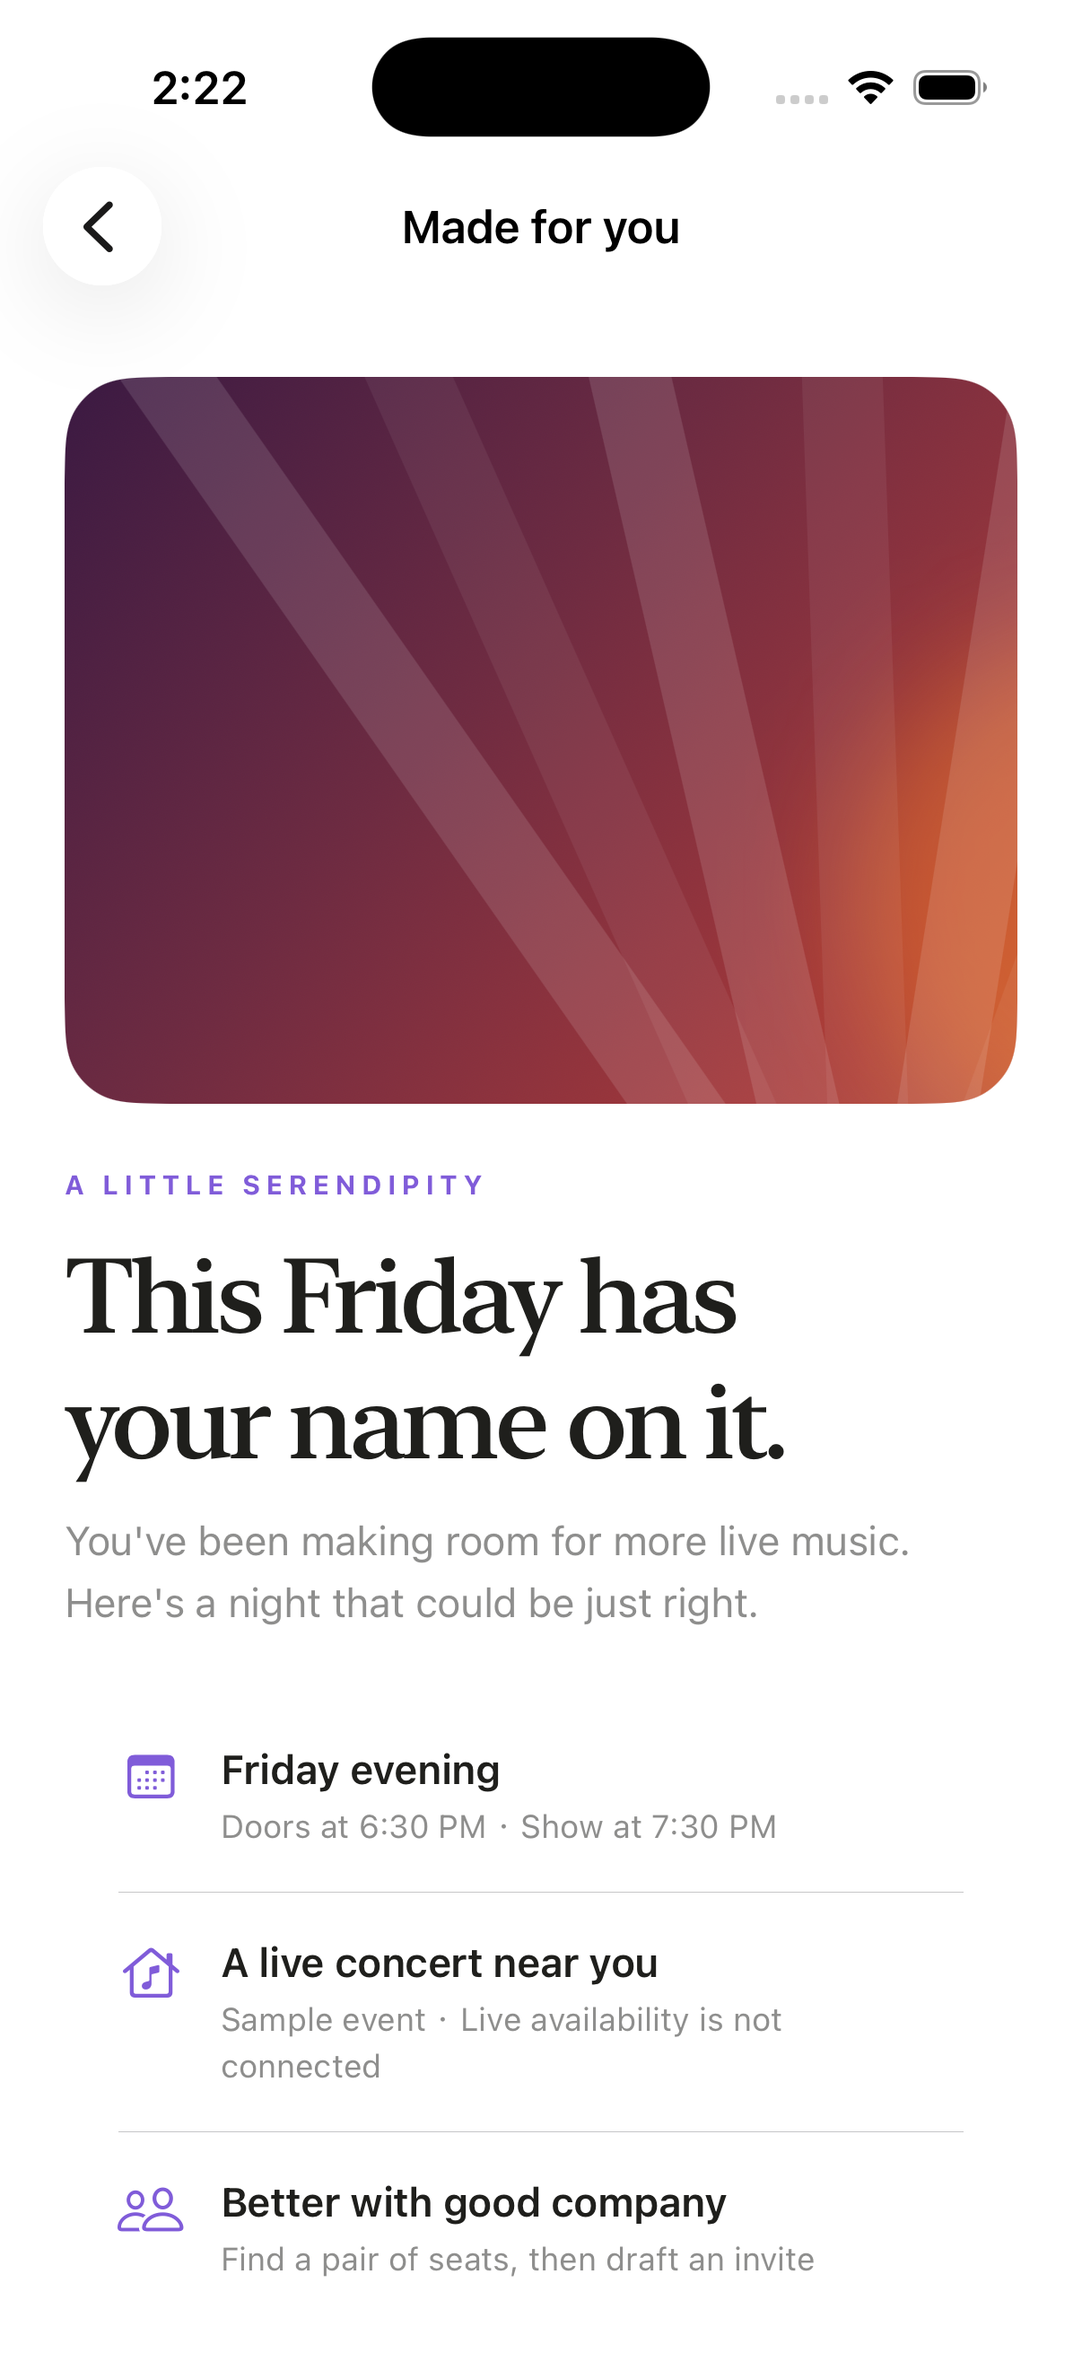
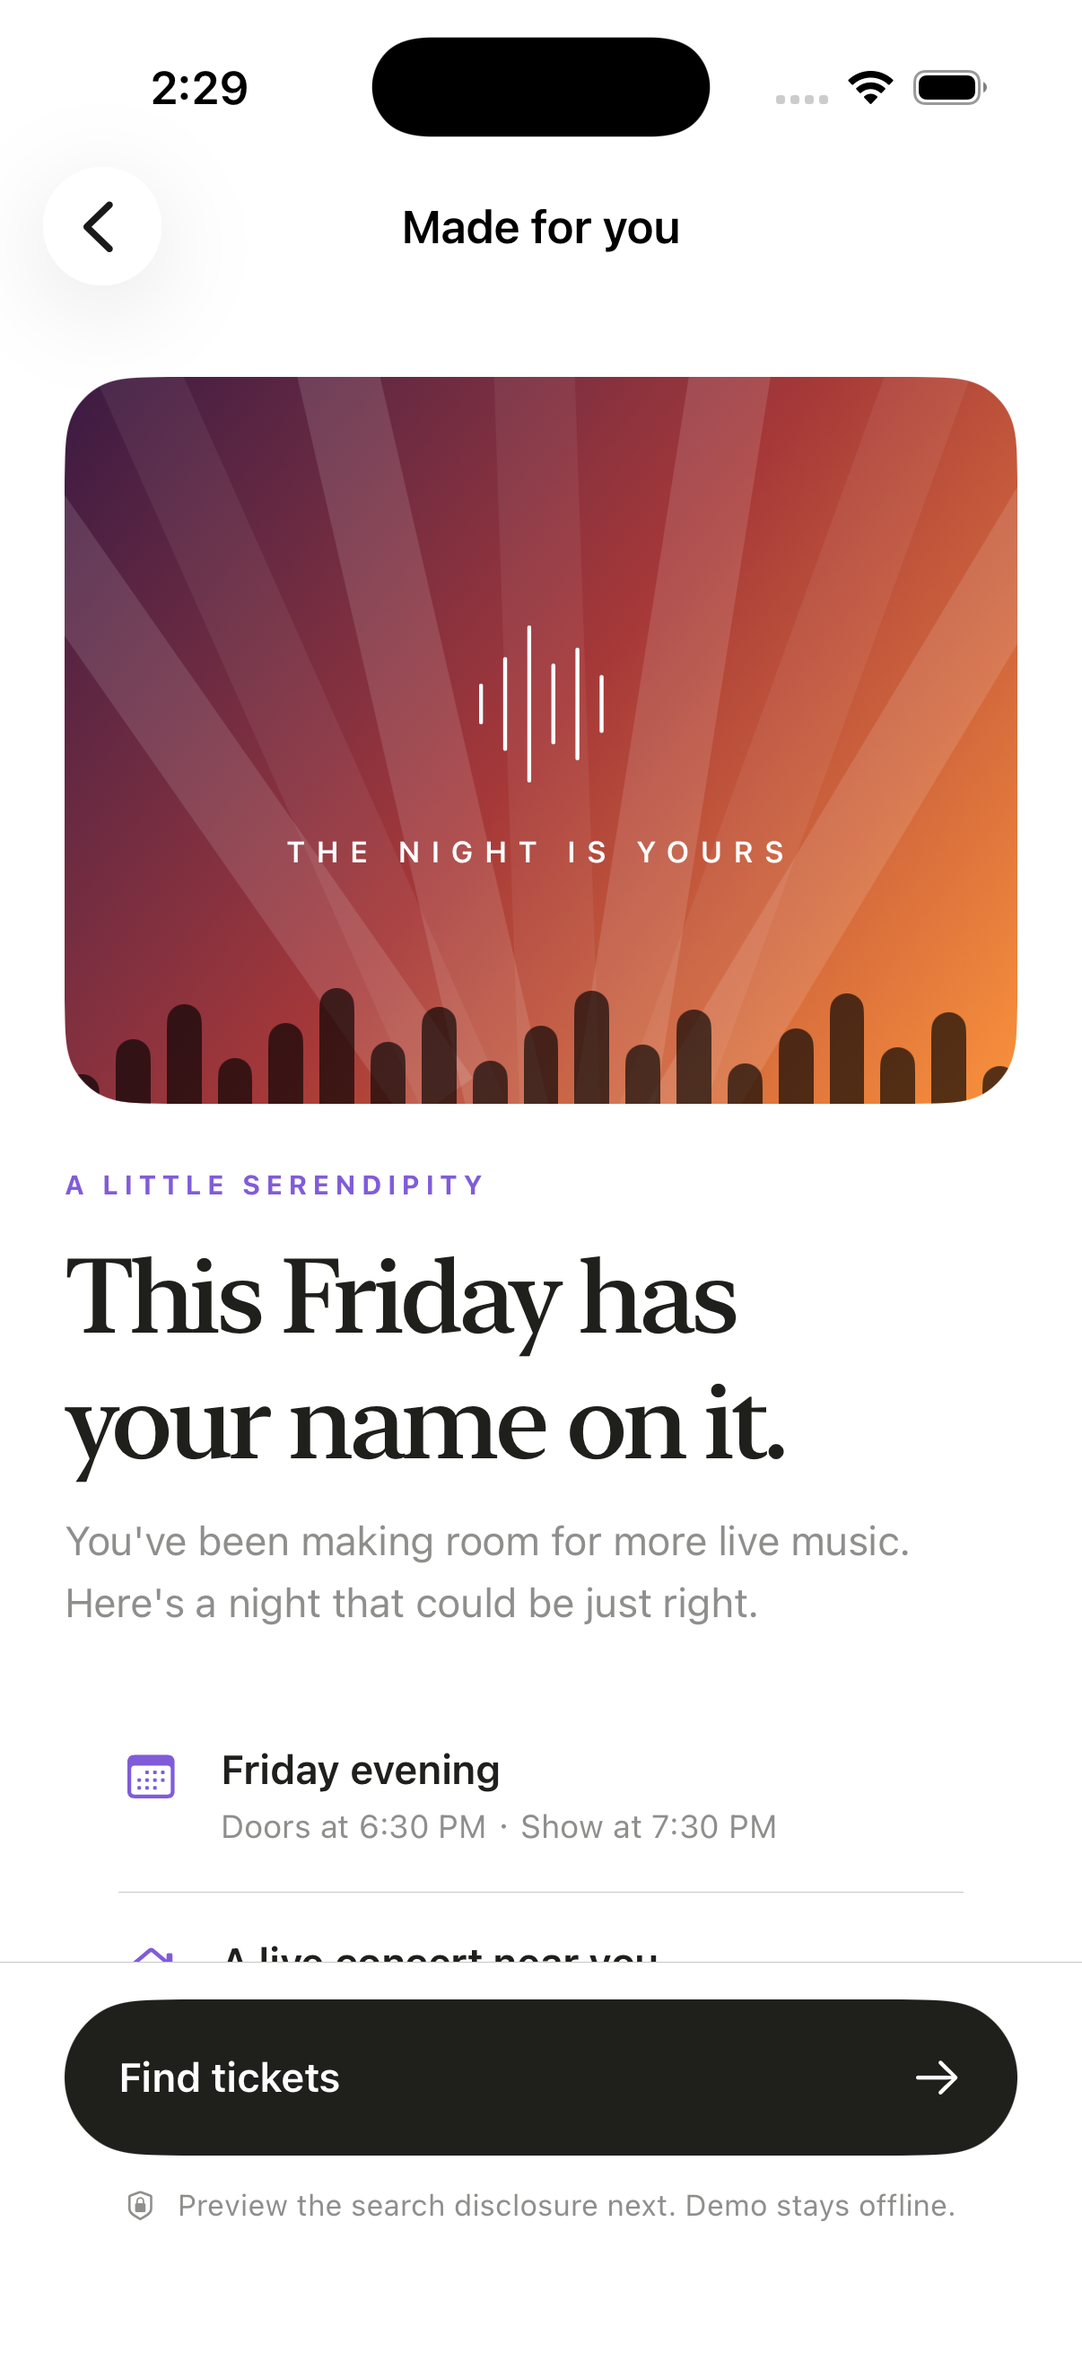
Complete concert demo plan flow and refine UI layouts

Changed region(s): [[0.0614, 0.1545, 0.9511, 0.4943], [0.0614, 0.8341, 0.9511, 0.9886], [0.1841, 0.0309, 0.2148, 0.0618]]

diff --git a/ios/Lens/TicketFlowViews.swift b/ios/Lens/TicketFlowViews.swift
@@ -1,9 +1,20 @@
 import SwiftUI
 
 /// A self-contained, local demo. No ticket, messaging, or calendar services are called.
+struct ConcertDemoPlan {
+    let seating: String
+    let pricePerTicket: Int
+    let invitationIncluded: Bool
+    let calendarIncluded: Bool
+    let rememberSeating: Bool
+    let rememberBudget: Bool
+}
+
 struct TicketFlowView: View {
+    var onComplete: (ConcertDemoPlan) -> Void = { _ in }
     @Environment(\.dismiss) private var dismiss
     @State private var step: Step = .request
+    @FocusState private var queryFocused: Bool
     @State private var query = "Find two tickets for Friday night, under $150 each."
     @State private var seatedOnly = false
     @State private var selectedTicket = 0
@@ -15,7 +26,7 @@ struct TicketFlowView: View {
     private let accent = Color(red: 0.43, green: 0.30, blue: 0.83)
 
     private enum Step: Int, CaseIterable {
-        case request, permission, searching, tickets, drafts, complete
+        case request, permission, searching, tickets, drafts, memory, complete
     }
 
     private struct Ticket {
@@ -36,7 +47,7 @@ struct TicketFlowView: View {
             ScrollView {
                 VStack(alignment: .leading, spacing: 24) {
                     HStack(spacing: 6) {
-                        ForEach(0..<5) { index in
+                        ForEach(0..<6) { index in
                             Capsule().fill(index <= progressIndex ? accent : Color.black.opacity(0.09)).frame(height: 3)
                         }
                     }
@@ -55,6 +66,10 @@ struct TicketFlowView: View {
                 .frame(maxWidth: 600, alignment: .leading)
                 .frame(maxWidth: .infinity)
             }
+            .id(step)
+            .onChange(of: step) { _, _ in queryFocused = false }
+            .scrollDismissesKeyboard(.interactively)
+            .defaultScrollAnchor(.top)
             .background(background.ignoresSafeArea())
             .foregroundStyle(Color.black)
             .navigationTitle("Lens")
@@ -74,6 +89,16 @@ struct TicketFlowView: View {
             }
         }
         .tint(accent)
+        .preferredColorScheme(.light)
+        #if DEBUG
+        .task {
+            if let argument = ProcessInfo.processInfo.arguments.first(where: { $0.hasPrefix("--ticket-step=") }),
+               let value = Int(argument.split(separator: "=").last ?? ""),
+               let preview = Step(rawValue: value) {
+                step = preview
+            }
+        }
+        #endif
     }
 
     private var progressIndex: Int { step == .searching ? 1 : max(0, step.rawValue - (step.rawValue > 2 ? 1 : 0)) }
@@ -86,6 +111,7 @@ struct TicketFlowView: View {
                 Label("YOUR REQUEST", systemImage: "waveform").font(.caption.weight(.bold)).foregroundStyle(accent)
                 TextField("What would you like to find?", text: $query, axis: .vertical)
                     .font(.title3.weight(.medium)).lineLimit(3...5)
+                    .focused($queryFocused)
                 Text("Type a request to try the demo. Voice recording is not active here.").font(.caption).foregroundStyle(.secondary)
             }
             Label("2 people  ·  Friday evening", systemImage: "person.2").font(.subheadline)
@@ -150,8 +176,9 @@ struct TicketFlowView: View {
                             }
                         }
                         .padding(18).background(.white, in: RoundedRectangle(cornerRadius: 20))
-                        .overlay(RoundedRectangle(cornerRadius: 20).stroke(selectedTicket == index ? accent : .clear, lineWidth: 1.5))
+                        .overlay(RoundedRectangle(cornerRadius: 20).stroke(selectedTicket == index ? accent : Color.black.opacity(0.12), lineWidth: 1.5))
                     }.buttonStyle(.plain)
+                        .accessibilityAddTraits(selectedTicket == index ? .isSelected : [])
                 }
             }
             Text("Demo prices only. Availability, fees, and event details are fictional. No tickets are reserved or purchased.").font(.caption).foregroundStyle(.secondary)
@@ -167,30 +194,55 @@ struct TicketFlowView: View {
             card {
                 Toggle("Calendar draft", isOn: $includeCalendar).font(.headline)
                 Text("Friday concert night").font(.subheadline.weight(.semibold))
-                Text("Friday · 7:00–10:00 PM\nVenue and event date to be confirmed")
+                Text("Friday · 7:30–10:00 PM\nVenue and event date to be confirmed")
                     .font(.subheadline).foregroundStyle(.secondary)
                 Label("Preview only · No calendar access", systemImage: "calendar").font(.caption).foregroundStyle(accent)
             }
-            action("Finish demo plan", icon: "checkmark") { step = .complete }
+            action("Review memory choices", icon: "arrow.right") { step = .memory }
+        case .memory:
+            heading("Choose what\nto remember.", subtitle: "A good suggestion should leave you in control.")
+            card {
+                Label("OPTIONAL MEMORY", systemImage: "brain.head.profile").font(.caption.weight(.bold)).foregroundStyle(accent)
+                Text("Keep only what helps next time.").font(.headline)
+                Text("These choices stay with your sample plan for this app session. Nothing is stored in your private knowledge base.")
+                    .font(.subheadline).foregroundStyle(.secondary)
+                Toggle("I prefer seated tickets", isOn: $rememberSeating)
+                Divider()
+                Toggle("Keep my budget under $150", isOn: $rememberBudget)
+            }
+            action("Finish sample plan", icon: "checkmark") { step = .complete }
+            Button("Continue without remembering") {
+                rememberSeating = false
+                rememberBudget = false
+                step = .complete
+            }.font(.subheadline.weight(.semibold)).frame(maxWidth: .infinity)
         case .complete:
             Image(systemName: "checkmark.circle.fill").font(.system(size: 48)).foregroundStyle(accent)
             heading("Friday looks\ngood on you.", subtitle: "Your sample plan is ready to review.")
             card {
                 Text("CONCERT NIGHT").font(.caption.weight(.bold)).foregroundStyle(accent)
-                Text("Friday · 7 PM").font(.title2.weight(.semibold))
+                Text("Friday · 7:30 PM").font(.title2.weight(.semibold))
                 Text("2 × \(tickets[selectedTicket].title) · $\(tickets[selectedTicket].price * 2) sample total, before fees").font(.subheadline)
                 Divider()
                 Label(includeInvite ? "Invitation draft included" : "Invitation draft skipped", systemImage: "envelope")
                 Label(includeCalendar ? "Calendar draft included" : "Calendar draft skipped", systemImage: "calendar")
                 Text("Nothing was booked, sent, or added to your calendar.").font(.caption).foregroundStyle(.secondary)
             }
-            card {
-                Text("Keep this in mind?").font(.headline)
-                Text("Optional preferences for this demo session only.").font(.caption).foregroundStyle(.secondary)
-                Toggle("I prefer seated tickets", isOn: $rememberSeating)
-                Toggle("Keep my budget under $150", isOn: $rememberBudget)
+            if rememberSeating || rememberBudget {
+                Label("Preferences attached to this sample plan only", systemImage: "lock.shield")
+                    .font(.caption).foregroundStyle(.secondary)
             }
-            action("Done", icon: "checkmark") { dismiss() }
+            action("Keep plan on my home", icon: "checkmark") {
+                onComplete(ConcertDemoPlan(
+                    seating: tickets[selectedTicket].title,
+                    pricePerTicket: tickets[selectedTicket].price,
+                    invitationIncluded: includeInvite,
+                    calendarIncluded: includeCalendar,
+                    rememberSeating: rememberSeating,
+                    rememberBudget: rememberBudget
+                ))
+                dismiss()
+            }
         }
     }
 

diff --git a/ios/Lens/RecommendationViews.swift b/ios/Lens/RecommendationViews.swift
@@ -8,6 +8,7 @@ private enum RecommendationStyle {
 
 /// Personal suggestions are sample content until live recommendation APIs are connected.
 struct RecommendationHomeView: View {
+    var plan: ConcertDemoPlan? = nil
     let onOpenConcert: () -> Void
 
     @State private var dismissedConcert = false
@@ -23,7 +24,34 @@ struct RecommendationHomeView: View {
                 }
                 .frame(maxWidth: .infinity).padding(.top, 32).padding(.bottom, 52)
 
-                if !dismissedConcert {
+                if let plan {
+                    VStack(alignment: .leading, spacing: 16) {
+                        Label("YOUR FRIDAY PLAN", systemImage: "checkmark.circle")
+                            .font(.caption.weight(.semibold)).foregroundStyle(.gray)
+                        Text("A night to look forward to.").font(.title2.weight(.medium))
+                        Text("Friday · 7:30 PM · 2 × \(plan.seating)")
+                            .font(.subheadline).foregroundStyle(Color(white: 0.75))
+                        Text("$\(plan.pricePerTicket * 2) sample total, before fees")
+                            .font(.subheadline)
+                        HStack(spacing: 16) {
+                            Label(plan.invitationIncluded ? "Invite draft" : "No invite", systemImage: "envelope")
+                            Label(plan.calendarIncluded ? "Calendar draft" : "No calendar", systemImage: "calendar")
+                        }.font(.caption).foregroundStyle(.gray)
+                        if plan.rememberSeating || plan.rememberBudget {
+                            Text([plan.rememberSeating ? "Seated tickets" : nil,
+                                  plan.rememberBudget ? "Under $150 each" : nil]
+                                .compactMap { $0 }.joined(separator: " · "))
+                                .font(.caption).foregroundStyle(.gray)
+                        }
+                        Text("Sample plan · Nothing booked or sent · Kept for this session")
+                            .font(.caption2).foregroundStyle(.gray)
+                        Button("Explore another night", action: onOpenConcert)
+                            .font(.subheadline.weight(.semibold)).foregroundStyle(.white)
+                    }.padding(.vertical, 24)
+                        .frame(maxWidth: .infinity, alignment: .leading)
+                        .overlay(alignment: .top) { Rectangle().fill(Color(white: 0.23)).frame(height: 0.5) }
+                }
+                if !dismissedConcert && plan == nil {
                     suggestion(title: "Friday night", time: "now", text: "Your favorite artist is playing Friday, and your calendar is clear. Interested?") {
                         HStack(spacing: 24) {
                             Button("Take a look", action: onOpenConcert)
@@ -112,6 +140,11 @@ struct ConcertDetailView: View {
                         .font(.caption).foregroundStyle(.secondary).lineSpacing(4)
                 }.padding(.horizontal, 4)
 
+            }
+            .padding(24).frame(maxWidth: 560).frame(maxWidth: .infinity)
+        }
+        .safeAreaInset(edge: .bottom) {
+            VStack(spacing: 12) {
                 Button(action: onFindTickets) {
                     HStack {
                         Text("Find tickets").font(.subheadline.weight(.semibold))
@@ -125,7 +158,9 @@ struct ConcertDetailView: View {
                     .font(.caption2).foregroundStyle(.secondary)
                     .frame(maxWidth: .infinity)
             }
-            .padding(24).frame(maxWidth: 560).frame(maxWidth: .infinity)
+            .padding(.horizontal, 24).padding(.vertical, 14)
+            .background(.white)
+            .overlay(alignment: .top) { Divider() }
         }
         .background(RecommendationStyle.background)
         .foregroundStyle(RecommendationStyle.ink)
@@ -151,31 +186,40 @@ struct ConcertDetailView: View {
 /// A bundled, scalable illustration keeps the demo usable without image downloads.
 private struct ConcertArtwork: View {
     var body: some View {
-        GeometryReader { geometry in
-            ZStack {
-                LinearGradient(colors: [Color(red: 0.23, green: 0.10, blue: 0.26), Color(red: 0.65, green: 0.22, blue: 0.22), Color(red: 0.98, green: 0.57, blue: 0.23)], startPoint: .topLeading, endPoint: .bottomTrailing)
-                Circle().fill(Color.orange.opacity(0.4)).frame(width: 200, height: 200)
-                    .blur(radius: 22).offset(x: 100, y: -50)
-                ForEach(0..<7) { index in
-                    Rectangle().fill(Color.white.opacity(index.isMultiple(of: 2) ? 0.12 : 0.06))
-                        .frame(width: 30, height: geometry.size.height * 1.8)
-                        .rotationEffect(.degrees(Double(index * 11 - 35)))
-                        .offset(x: CGFloat(index * 43 - 125), y: -60)
+        Rectangle()
+            .fill(LinearGradient(
+                colors: [Color(red: 0.23, green: 0.10, blue: 0.26),
+                         Color(red: 0.65, green: 0.22, blue: 0.22),
+                         Color(red: 0.98, green: 0.57, blue: 0.23)],
+                startPoint: .topLeading, endPoint: .bottomTrailing
+            ))
+            .overlay {
+                GeometryReader { geometry in
+                    ZStack {
+                        ForEach(0..<7) { index in
+                            Rectangle().fill(Color.white.opacity(index.isMultiple(of: 2) ? 0.12 : 0.06))
+                                .frame(width: 30, height: geometry.size.height * 1.8)
+                                .rotationEffect(.degrees(Double(index * 11 - 35)))
+                                .position(x: CGFloat(index) * geometry.size.width / 6, y: 70)
+                        }
+                    }
                 }
-                VStack(spacing: 12) {
-                    Spacer()
+            }
+            .overlay {
+                VStack(spacing: 14) {
                     Image(systemName: "waveform").font(.system(size: 60, weight: .ultraLight))
                     Text("THE NIGHT IS YOURS").font(.system(size: 11, weight: .semibold)).tracking(4)
-                    Spacer().frame(height: 35)
-                }.foregroundStyle(Color.white.opacity(0.95))
-                HStack(alignment: .bottom, spacing: 9) {
+                }.foregroundStyle(.white)
+            }
+            .overlay(alignment: .bottom) {
+                HStack(alignment: .bottom, spacing: 6) {
                     ForEach(0..<19) { index in
                         Capsule().fill(Color.black.opacity(0.65))
-                            .frame(width: geometry.size.width / 16, height: CGFloat(22 + (index * 13) % 33))
+                            .frame(height: CGFloat(22 + (index * 13) % 33))
                     }
-                }.frame(maxHeight: .infinity, alignment: .bottom).offset(y: 11)
-            }.clipped()
-        }
-        .accessibilityLabel("Warm stage lights over a concert crowd")
+                }.offset(y: 11)
+            }
+            .clipped()
+            .accessibilityLabel("Warm stage lights over a concert crowd")
     }
 }

diff --git a/ios/Lens/ContentView.swift b/ios/Lens/ContentView.swift
@@ -1,6 +1,7 @@
 import SwiftUI
 
 struct ContentView: View {
+    @State private var concertPlan: ConcertDemoPlan?
     @State private var showAssistant = false
     @State private var showSettings = false
     @State private var showRoutes = false
@@ -8,7 +9,7 @@ struct ContentView: View {
 
     var body: some View {
         NavigationStack {
-            RecommendationHomeView {
+            RecommendationHomeView(plan: concertPlan) {
                 showConcert = true
             }
             .navigationDestination(isPresented: $showConcert) {
@@ -31,7 +32,11 @@ struct ContentView: View {
             .sheet(isPresented: $showAssistant) { AssistantChatView() }
             .sheet(isPresented: $showSettings) { SettingsView() }
             .sheet(isPresented: $showRoutes) { RoutingView() }
-            .sheet(isPresented: $showTickets) { TicketFlowView() }
+            .sheet(isPresented: $showTickets, onDismiss: {
+                if concertPlan != nil { showConcert = false }
+            }) {
+                TicketFlowView { concertPlan = $0 }
+            }
         }
         .tint(.primary)
         .preferredColorScheme(.light)

diff --git a/docs/ui-demo.md b/docs/ui-demo.md
@@ -10,6 +10,10 @@ Actual app renders captured on an iPhone 17 Pro simulator (iOS 26.3), November 8
 | --- | --- | --- |
 | <img src="screenshots/demo-home.png" width="260" alt="Black personal suggestions screen"> | <img src="screenshots/demo-concert.png" width="260" alt="Concert recommendation detail"> | <img src="screenshots/demo-ticket-request.png" width="260" alt="Ticket request demo"> |
 
+| Ticket options | Memory choices | Final plan |
+| --- | --- | --- |
+| <img src="screenshots/demo-ticket-options.png" width="260" alt="Selectable ticket options with seated filter"> | <img src="screenshots/demo-memory.png" width="260" alt="Optional memory choices"> | <img src="screenshots/demo-final-plan.png" width="260" alt="Sample plan summary"> |
+
 ## Try the flow
 
 1. Open the app and select **Take a look**.
@@ -17,7 +21,8 @@ Actual app renders captured on an iPhone 17 Pro simulator (iOS 26.3), November 8
 3. Review the request and the disclosure of what an online provider would receive.
 4. Simulate an online search or stay offline to view fictional ticket options.
 5. Choose a ticket, optionally filter for seated tickets, and review invitation/calendar drafts.
-6. Finish the sample plan and optionally toggle temporary preference choices.
+6. Choose temporary memory preferences or skip remembering entirely.
+7. Finish the sample plan and select **Keep plan on my home**. The homepage keeps the seating, total, draft choices and optional preferences until the app session ends.
 
 The waveform toolbar button opens the original voice/text assistant. Settings and routing logs remain accessible from the homepage toolbar.
 
@@ -35,3 +40,5 @@ xcrun simctl io <device-id> screenshot docs/screenshots/demo-concert.png
 ```
 
 Terminate the app before relaunching with a different preview argument. Launch without preview arguments for the homepage.
+
+Use `--preview-tickets --ticket-step=3` for ticket options, `--ticket-step=5` for memory choices, or `--ticket-step=6` for the final plan in a Debug build. These launch arguments only select a preview screen; captures do not verify navigation between screens.
